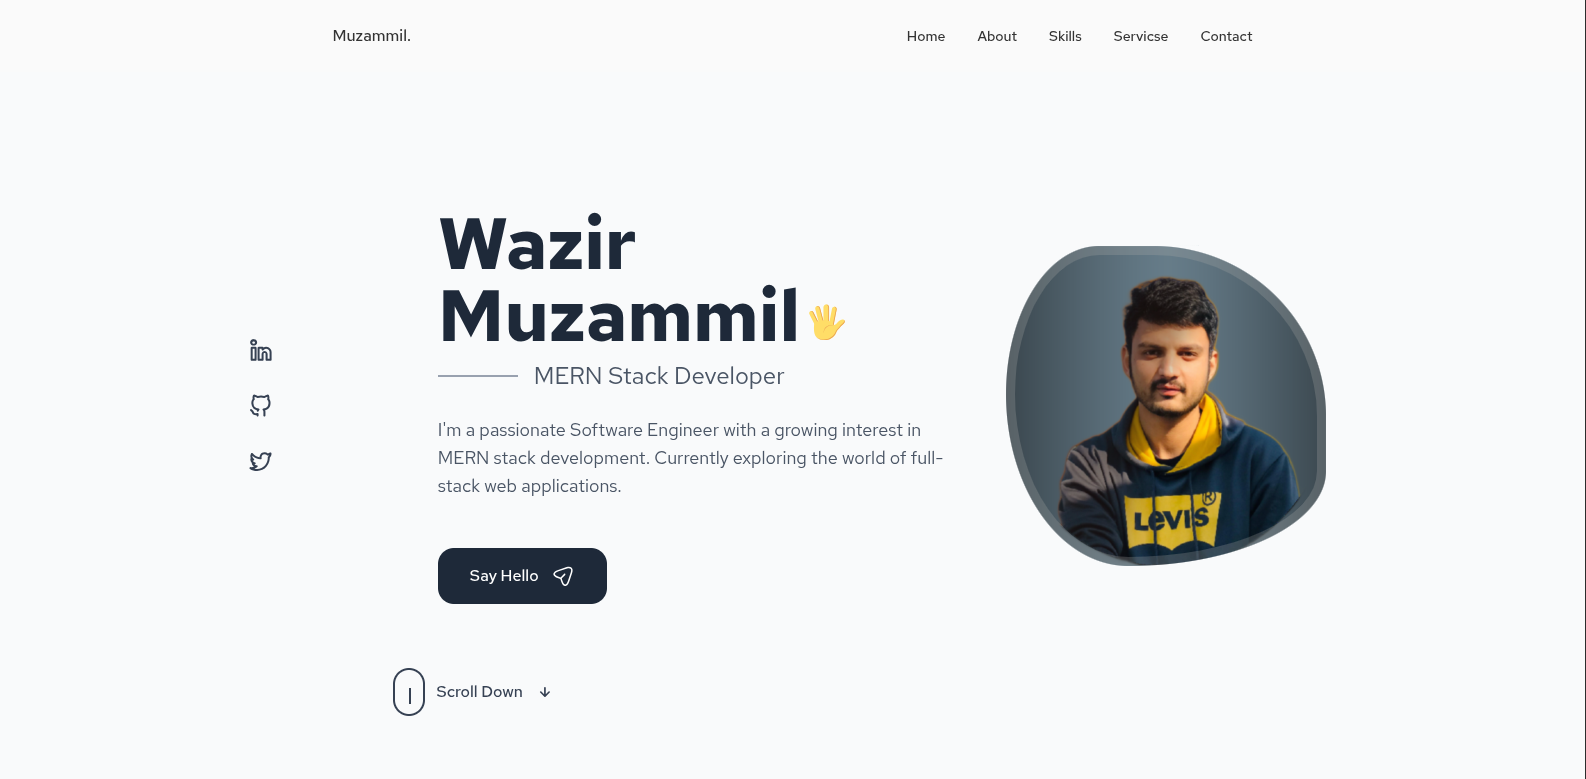
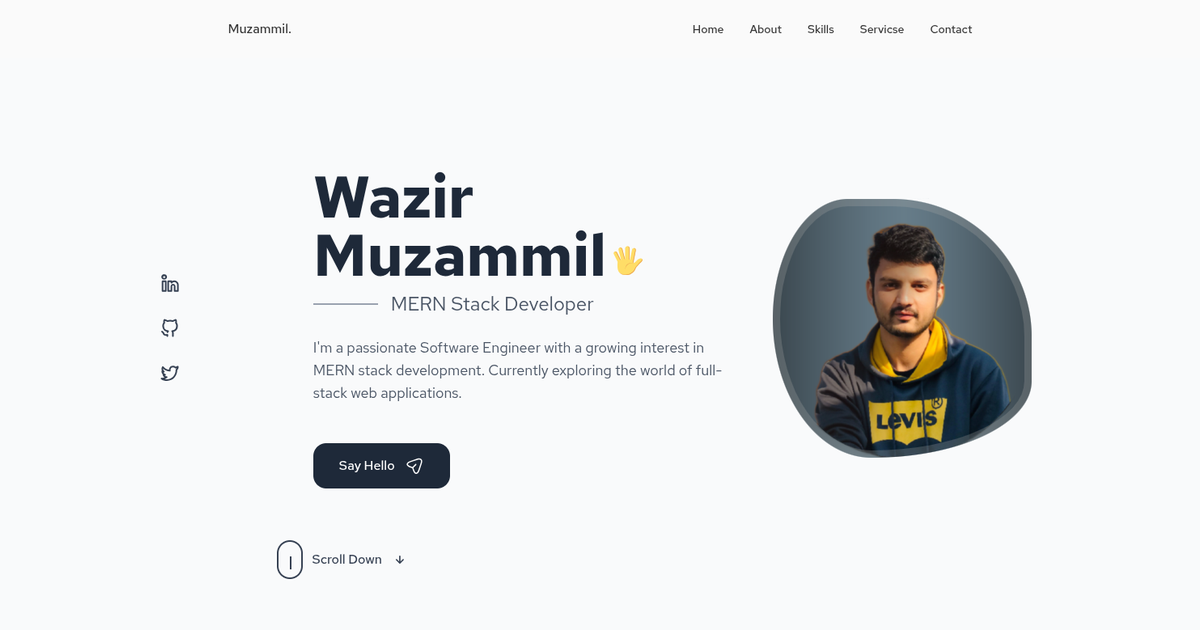
fix: update Open Graph image dimensions and replace the image file

diff --git a/lib/site.ts b/lib/site.ts
@@ -48,11 +48,11 @@ export const siteConfig = {
   },
   images: {
     og: {
-      // public/ogimage.png is 1586x779. Keep these in sync with the real file —
-      // some crawlers use the declared size, not the actual one, when cropping.
+      // public/ogimage.png is exactly 1200x630 (1.91:1, the OG standard).
+      // Re-crop from the 1586x779 original if you ever replace the design.
       url: "/ogimage.png",
-      width: 1586,
-      height: 779,
+      width: 1200,
+      height: 630,
       alt: "Wazir Muzammil — MERN Stack Developer portfolio",
     },
     profile: "/profile-pic.png",
